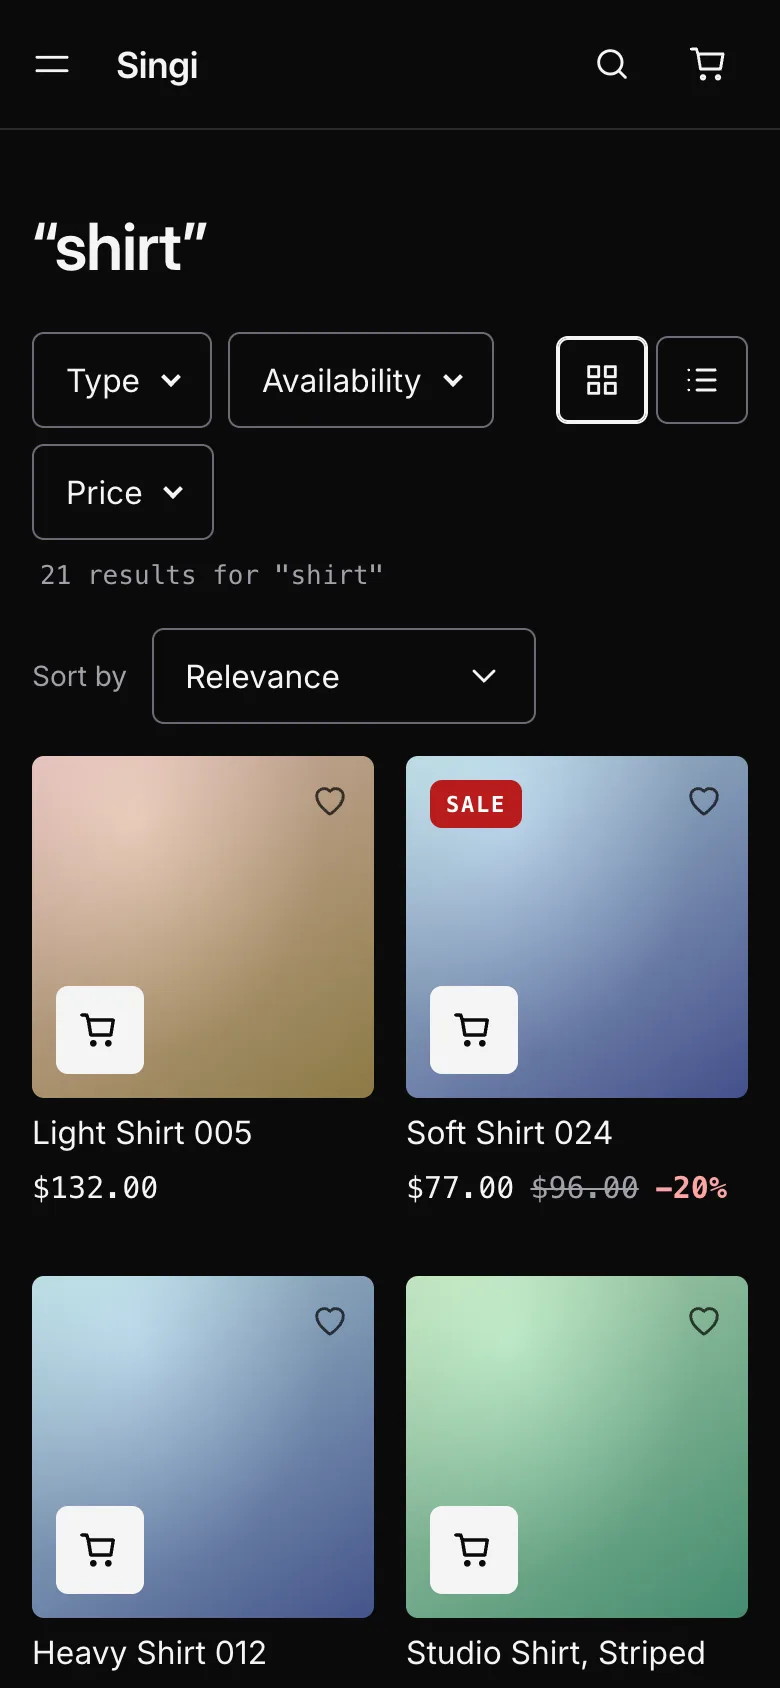
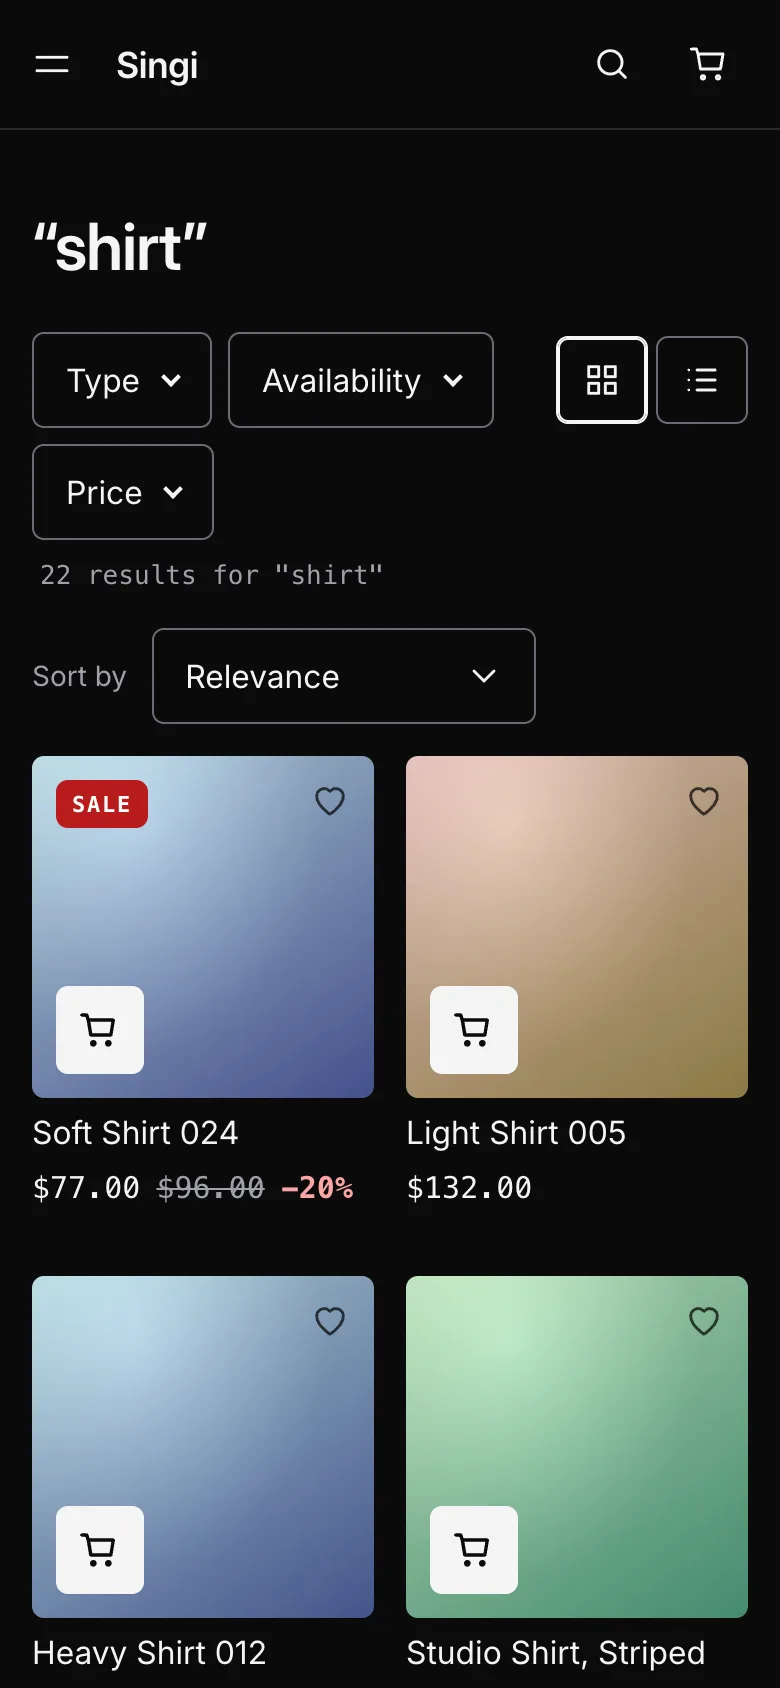
Preferences: even space above and below; summaries and buttons do not select text on a double tap; screenshots retaken

Changed region(s): [[0.0308, 0.4313, 0.4923, 0.7085], [0.5231, 0.4313, 0.9846, 0.7085]]

diff --git a/assets/base.css b/assets/base.css
@@ -34,6 +34,7 @@ ul[role=list],ol[role=list]{list-style:none;padding:0}
 .skip-link:focus{top:1rem}
 .eyebrow{font:.75rem/1.4 var(--font-mono);letter-spacing:var(--tracking-wide);text-transform:uppercase;color:var(--color-muted)}
 .muted{color:var(--color-muted)}
+:is(summary,button,.button){-webkit-user-select:none;user-select:none;touch-action:manipulation}
 .button{display:inline-flex;align-items:center;justify-content:center;gap:.5rem;min-height:3rem;padding:.6875rem 1.5rem;border:1px solid var(--color-fg);border-radius:var(--radius);background:var(--color-fg);color:var(--color-bg);font:inherit;font-weight:var(--font-weight-strong);text-decoration:none;cursor:pointer;transition:opacity .15s}
 .button:hover{opacity:.88}
 .button--secondary{background:transparent;color:var(--color-fg);border-color:var(--color-control)}

diff --git a/docs/design-system.md b/docs/design-system.md
@@ -118,7 +118,7 @@ The heading block (`blocks/heading.liquid`) offers `sm`, `md`, `lg`, `xl` sizes 
 
 | Component | Where | Notes |
 | --- | --- | --- |
-| Button | `.button`, `.button--secondary`, `.button--block` in `base.css` | Primary is inverted foreground on background. |
+| Button | `.button`, `.button--secondary`, `.button--block` in `base.css` | Primary is inverted foreground on background. Buttons, `.button` and every `<summary>` (the accordion, facets, the cookie dialog's Preferences) do not select their text and do not wait for a double-tap zoom (`user-select: none; touch-action: manipulation` in `base.css`): a double tap on an expandable used to select its label. |
 | Inputs | `input`, `select`, `textarea` in `base.css` | 3rem tall, radius token. A select sits in `<span class="select">` with the `chevron-down` icon after it, the same chevron as the accordion, facets and footer selector. |
 | Chip (variant option) | `blocks/_variant-picker.liquid` | Real radios, visually hidden, styled labels. |
 | Product card | `snippets/product-card.liquid` | 4:5 media, stretched link, sold-out badge. |

diff --git a/docs/reference/assets.md b/docs/reference/assets.md
@@ -7,7 +7,7 @@ Size in bytes (before Shopify's CDN compression) and where each asset is referen
 | Asset | Bytes | Referenced by |
 | --- | --- | --- |
 | `assets/announcement-bar.js` | 521 | `sections/announcement-bar.liquid` |
-| `assets/base.css` | 11964 | `layout/password.liquid`, `layout/theme.liquid`, `templates/gift_card.liquid` |
+| `assets/base.css` | 12061 | `layout/password.liquid`, `layout/theme.liquid`, `templates/gift_card.liquid` |
 | `assets/card-video.js` | 1425 | `layout/theme.liquid` |
 | `assets/cart-drawer.js` | 1689 | `sections/cart-drawer.liquid` |
 | `assets/cart-items.js` | 2181 | `sections/cart-drawer.liquid`, `sections/main-cart.liquid` |
